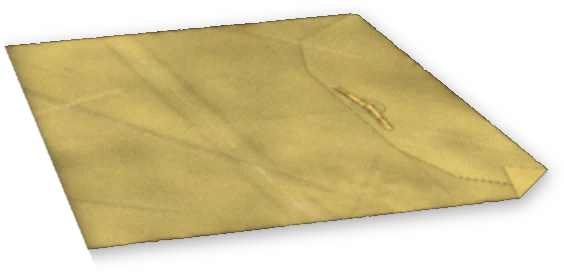
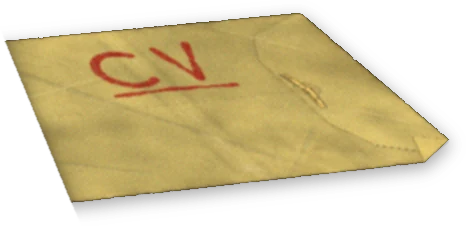
CV envelope: smaller, CV written on it in red marker
Claude-Session: https://claude.ai/code/session_016uVSqxacXpJzEejh8DPR6u

diff --git a/index.html b/index.html
@@ -121,12 +121,12 @@ button:focus-visible,a:focus-visible{outline:2px solid #fff;outline-offset:3px;b
 .nk.on .lcdTxt{opacity:1}
 
 /* ---- CV folder on the table ---- */
-.cvEnv{position:absolute;left:68.375%;top:69.7778%;width:17.625%;pointer-events:none}
+.cvEnv{position:absolute;left:68.5%;top:70.6667%;width:14.5625%;pointer-events:none}
 .cvEnvImg{display:block;width:100%;height:auto;transition:filter .2s ease-out}
-.cvEnvHit{position:absolute;inset:0;padding:0;border:0;background:transparent;cursor:pointer;pointer-events:auto;clip-path:polygon(0.4% 16.7%,63.2% 4.5%,102.2% 70.6%,15.3% 91.7%);-webkit-tap-highlight-color:transparent}
+.cvEnvHit{position:absolute;inset:0;padding:0;border:0;background:transparent;cursor:pointer;pointer-events:auto;clip-path:polygon(0.6% 17.9%,64.5% 5.4%,100.9% 69.5%,14.9% 89.7%);-webkit-tap-highlight-color:transparent}
 .cvEnvHit:focus-visible{outline:0}
 .cvEnv:has(.cvEnvHit:hover) .cvEnvImg,.cvEnv:has(.cvEnvHit:focus-visible) .cvEnvImg{filter:brightness(1.07)}
-.cvHint{left:78%;top:67.5%;right:auto;bottom:auto;transform:translate(-50%,-50%)}
+.cvHint{left:76.5%;top:68.5%;right:auto;bottom:auto;transform:translate(-50%,-50%)}
 @media (min-width:901px){#openPortfolio{right:auto;left:64%;top:80.5%;bottom:auto;transform:translate(-50%,-50%)}}
 /* ---- CV viewer ---- */
 .cvScroll{flex:1;min-height:0;overflow:auto;overscroll-behavior:contain;padding:28px 24px 40px;display:flex;justify-content:center;align-items:flex-start;outline:none}
@@ -288,7 +288,7 @@ a.pill{text-decoration:none;display:inline-block}
         </svg>
       </button>
       <div class="cvEnv">
-        <img class="cvEnvImg" src="assets/cv-envelope.webp?v=2" width="564" height="272" alt="" decoding="async">
+        <img class="cvEnvImg" src="assets/cv-envelope.webp?v=3" width="466" height="226" alt="" decoding="async">
         <button class="cvEnvHit" id="cvFolder" type="button" aria-label="Open the CV" title="CV (V)"></button>
       </div>
     </div>
